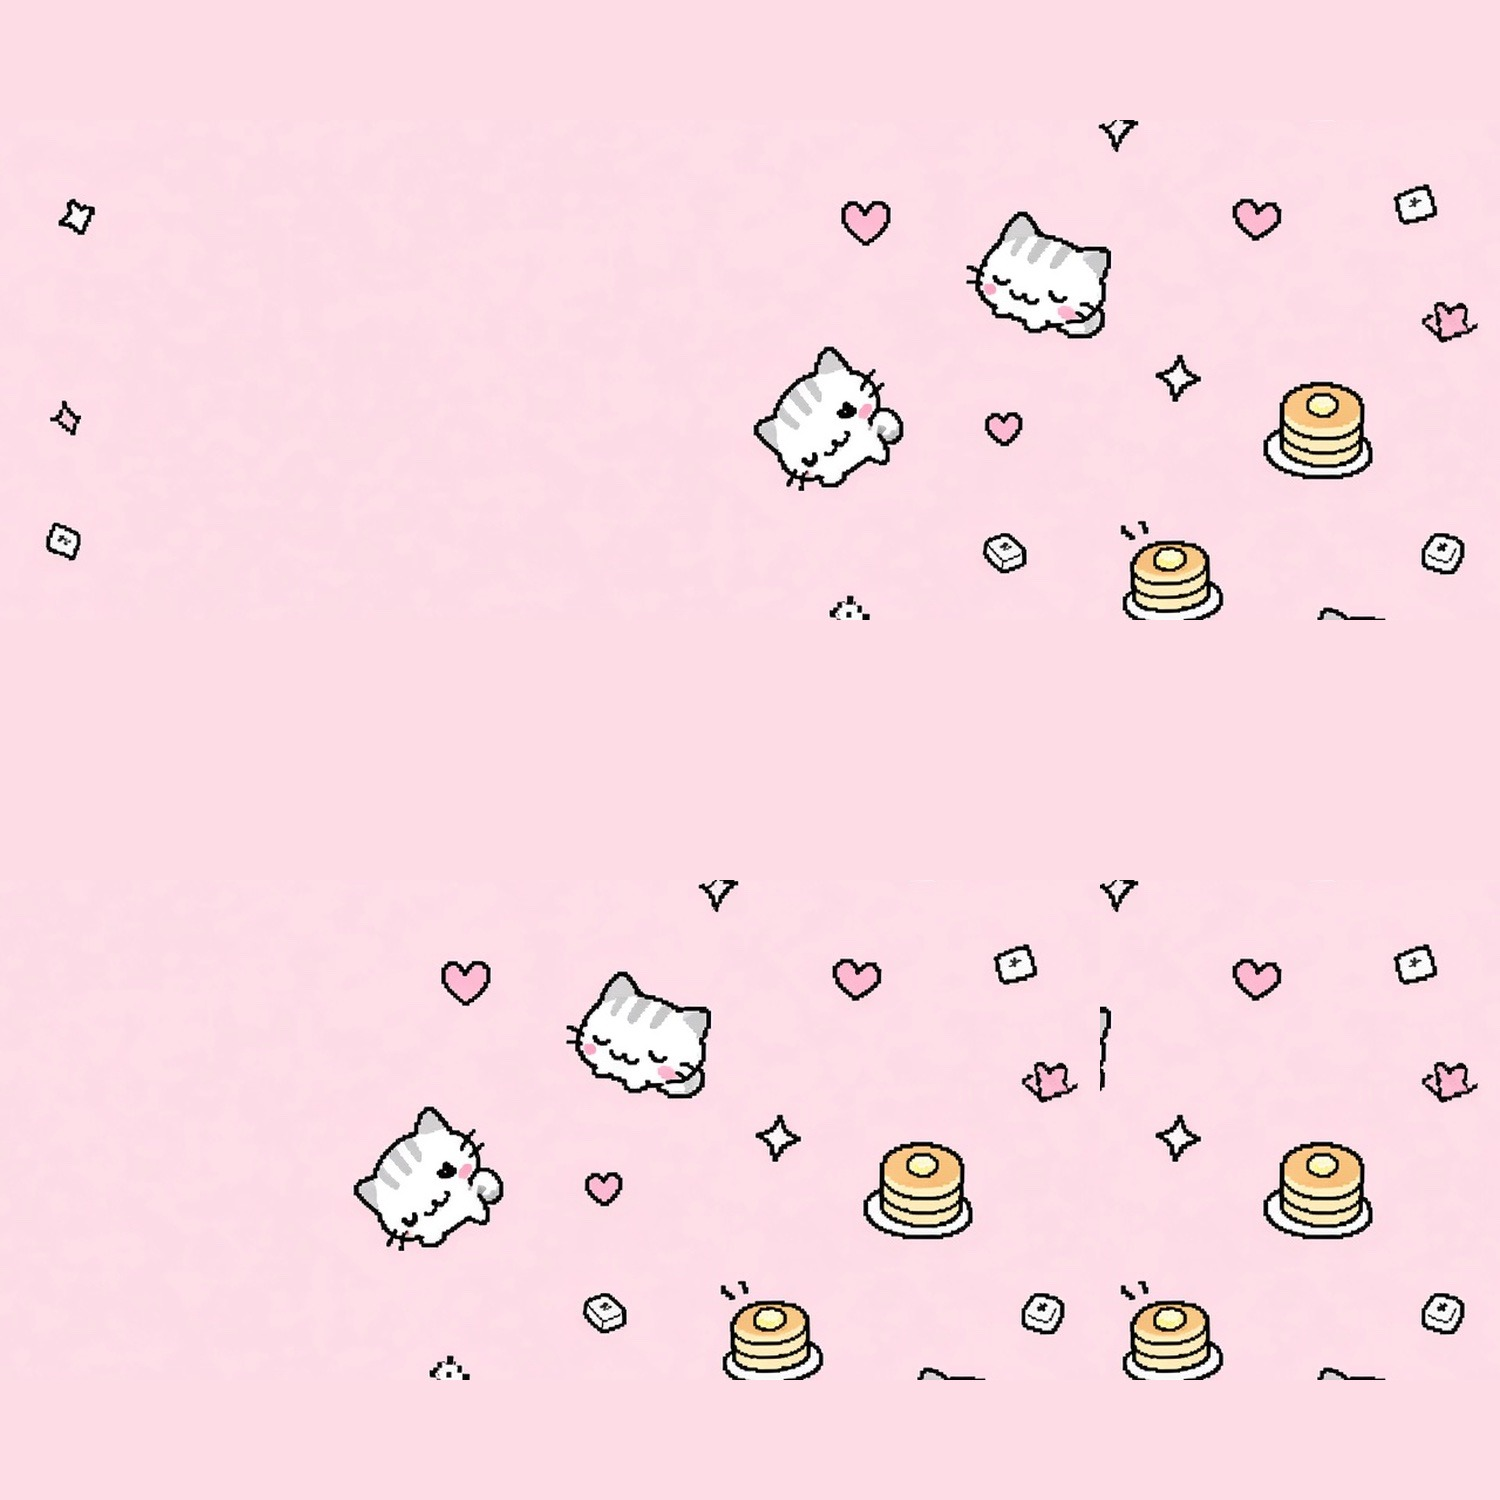
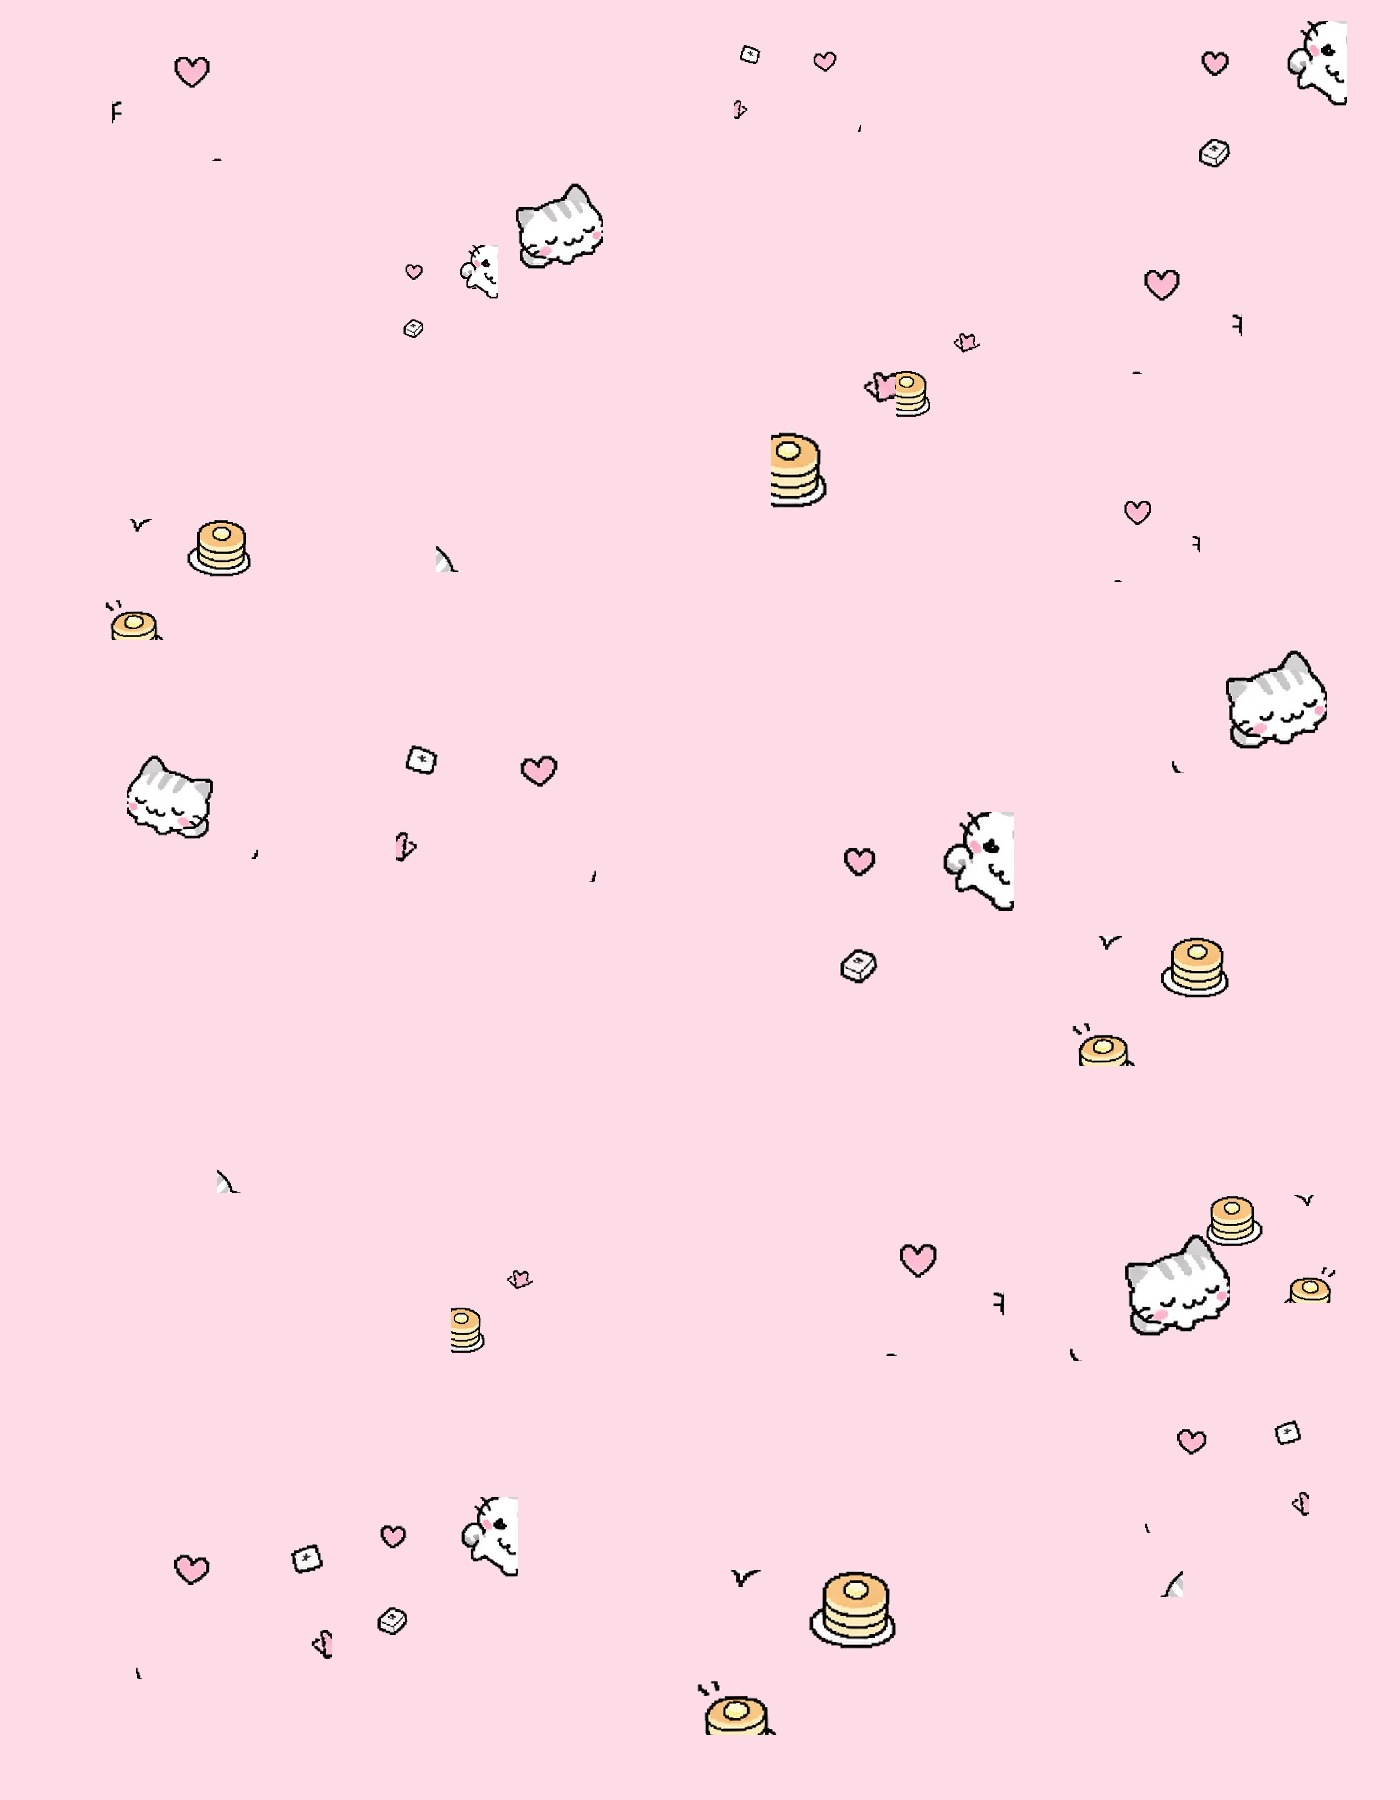
Use an even pink pixel website background
Replace the one-sided banner backdrop with a soft pink repeating tile
where cats, pancakes, hearts, and sparkles are scattered across the page.

diff --git a/public/styles.css b/public/styles.css
@@ -45,15 +45,12 @@ body {
   font-family: var(--font-body);
   font-weight: 600;
   line-height: 1.55;
-  background-color: #fddce6;
-  background-image:
-    linear-gradient(180deg, rgba(253, 220, 230, 0.55) 0%, rgba(253, 220, 230, 0.12) 40%, rgba(253, 220, 230, 0.42) 100%),
-    url("/assets/banner-pixel.jpg"),
-    url("/assets/bg-pixel-tile.jpg");
-  background-repeat: no-repeat, repeat-x, repeat;
-  background-size: 100% 100%, min(1180px, 145vw) auto, 1040px auto;
-  background-position: center top, center top, center 460px;
-  background-attachment: scroll;
+  /* One soft pink website background with cats/pancakes/hearts scattered evenly */
+  background-color: #fcdbe6;
+  background-image: url("/assets/bg-pixel-tile.jpg");
+  background-repeat: repeat;
+  background-size: 720px auto;
+  background-position: center top;
   overflow-x: hidden;
 }
 
@@ -450,12 +447,7 @@ h3 {
   gap: 0.85rem;
   padding: 0.7rem 1rem;
   border-block: 2px solid rgba(246, 178, 208, 0.65);
-  background:
-    linear-gradient(90deg, rgba(253, 220, 230, 0.25), rgba(255, 246, 250, 0.75), rgba(253, 220, 230, 0.25)),
-    url("/assets/banner-pixel.jpg");
-  background-size: auto, 900px auto;
-  background-position: center, 40% 55%;
-  background-repeat: no-repeat, no-repeat;
+  background: rgba(255, 246, 250, 0.72);
 }
 
 .motif-btn {
